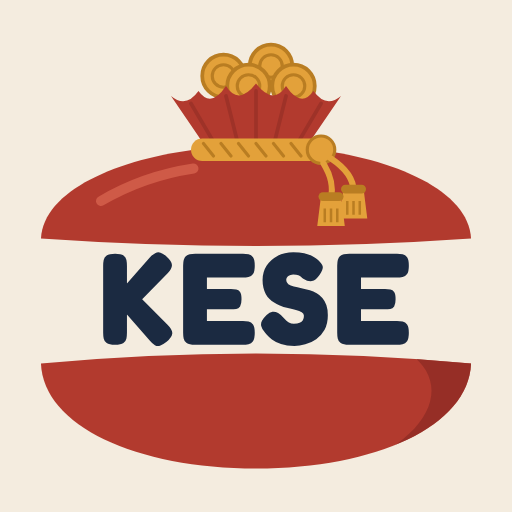
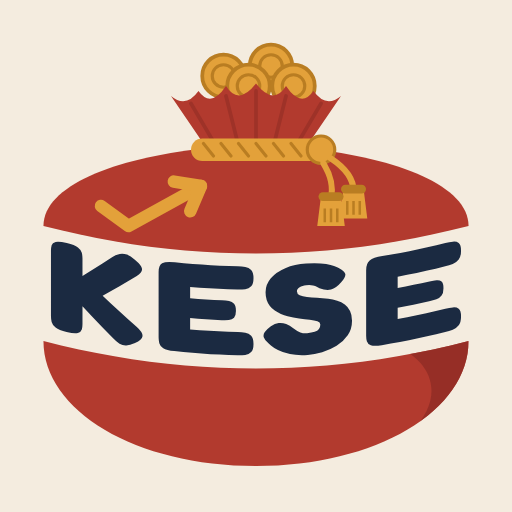
Kese logosu: yazı kesenin kavisine bükülüyor, ✓↗ birikim simgesi
KESE harfleri kesenin iki yarısının kavisli kenarlarına göre bükülüp
aradaki bandı tam dolduruyor. Üst yarıda altın sırma tek çizgi:
önce onay işareti (kontrol), sonra yükselen ok (birikim).

Claude-Session: https://claude.ai/code/session_01XqyNYuTbSfPdxAJCXwaoCi

diff --git a/index.html b/index.html
@@ -257,7 +257,7 @@ h2{font-family:var(--f-display);font-weight:600;font-size:1.05rem;margin:0;displ
 <body>
 <div class="wrap">
   <header>
-    <div class="brand"><svg class="crest" viewBox="34 62 352 348" aria-hidden="true"><circle cx="184" cy="92" r="17" fill="#e3a13a" stroke="#b97d22" stroke-width="3"/><circle cx="184" cy="92" r="9" fill="none" stroke="#b97d22" stroke-width="2.5"/><circle cx="222" cy="84" r="17" fill="#e3a13a" stroke="#b97d22" stroke-width="3"/><circle cx="222" cy="84" r="9" fill="none" stroke="#b97d22" stroke-width="2.5"/><circle cx="204" cy="100" r="17" fill="#e3a13a" stroke="#b97d22" stroke-width="3"/><circle cx="204" cy="100" r="9" fill="none" stroke="#b97d22" stroke-width="2.5"/><circle cx="240" cy="100" r="17" fill="#e3a13a" stroke="#b97d22" stroke-width="3"/><circle cx="240" cy="100" r="9" fill="none" stroke="#b97d22" stroke-width="2.5"/><path d="M172 152 L142 108 Q154 118 164 104 Q174 118 186 100 Q196 116 210 98 Q224 116 234 100 Q246 118 256 104 Q266 118 278 108 L248 152 Z" fill="#b23a2e"/><path d="M158 114 L178 148 M186 108 L196 148 M210 104 V148 M234 108 L224 148 M262 114 L242 148" stroke="#8f2c24" stroke-width="3" stroke-linecap="round" opacity=".55"/><path d="M168 150 C98 158 40 184 38 222 Q210 234 382 222 C380 184 322 158 252 150 Z" fill="#b23a2e"/><path d="M86 192 Q120 172 160 166" stroke="#cf5a47" stroke-width="8" stroke-linecap="round" fill="none"/><rect x="158" y="142" width="104" height="18" rx="9" fill="#e3a13a"/><path d="M168 146 l8 10 M182 146 l8 10 M196 146 l8 10 M210 146 l8 10 M224 146 l8 10 M238 146 l8 10" stroke="#b97d22" stroke-width="2.5" stroke-linecap="round"/><circle cx="262" cy="151" r="11" fill="#e3a13a" stroke="#b97d22" stroke-width="2.5"/><path d="M270 158 C282 166 288 174 288 184 M264 162 C270 172 272 180 270 190" stroke="#e3a13a" stroke-width="5" fill="none" stroke-linecap="round"/><path d="M280 182 H296 L299 206 H277 Z M262 188 H278 L281 212 H259 Z" fill="#e3a13a"/><path d="M283 192 V203 M288 192 V203 M293 192 V203 M265 198 V209 M270 198 V209 M275 198 V209" stroke="#b97d22" stroke-width="2"/><rect x="278" y="179" width="20" height="7" rx="3.5" fill="#b97d22"/><rect x="260" y="185" width="20" height="7" rx="3.5" fill="#b97d22"/><defs><clipPath id="khbot"><path d="M38 322 Q210 306 382 322 C380 372 306 406 210 406 C114 406 40 372 38 322 Z"/></clipPath></defs><path d="M38 322 Q210 306 382 322 C380 372 306 406 210 406 C114 406 40 372 38 322 Z" fill="#b23a2e"/><g clip-path="url(#khbot)"><path d="M300 300 C384 320 360 394 250 414 H400 V300 Z" fill="#8f2c24" opacity=".8"/></g><path transform="translate(83.59 306)" fill="currentColor" d="M13.62 0.94L13.62 0.94Q8.94 0.94 6.97-0.47Q4.99-1.87 4.58-4.11Q4.16-6.34 4.16-8.63L4.16-8.63L4.16-62.40Q4.16-64.69 4.58-66.87Q4.99-69.06 6.97-70.46Q8.94-71.86 13.73-71.86L13.73-71.86Q18.51-71.86 20.44-70.46Q22.36-69.06 22.78-66.87Q23.19-64.69 23.19-62.30L23.19-62.30L23.19-47.94L41.29-68.64Q43.68-71.24 45.76-72.28Q47.84-73.32 50.02-72.70Q52.21-72.07 54.81-69.58L54.81-69.58Q59.07-65.73 59.18-62.82Q59.28-59.90 55.74-56.16L55.74-56.16L35.36-35.36L55.85-14.87Q59.70-11.02 59.44-7.96Q59.18-4.89 54.91-1.35L54.91-1.35Q51.79 1.14 49.61 1.77Q47.42 2.39 45.55 1.30Q43.68 0.21 41.39-2.50L41.39-2.50L23.19-23.19L23.19-8.53Q23.19-6.24 22.78-4.06Q22.36-1.87 20.38-0.47Q18.41 0.94 13.62 0.94ZM115.86 0.94L77.58 0.94Q72.90 0.94 70.93-0.47Q68.95-1.87 68.54-4.11Q68.12-6.34 68.12-8.63L68.12-8.63L68.12-62.40Q68.12-67.81 70.25-69.84Q72.38-71.86 77.90-71.86L77.90-71.86L115.96-71.86Q118.35-71.86 120.48-71.45Q122.62-71.03 124.02-69.06Q125.42-67.08 125.42-62.30L125.42-62.30Q125.42-57.62 124.02-55.64Q122.62-53.66 120.43-53.25Q118.25-52.83 115.86-52.83L115.86-52.83L87.15-52.83L87.15-43.58L106.39-43.58Q108.78-43.58 110.66-43.21Q112.53-42.85 113.67-41.18Q114.82-39.52 114.82-35.36L114.82-35.36Q114.82-31.41 113.67-29.69Q112.53-27.98 110.55-27.66Q108.58-27.35 106.18-27.35L106.18-27.35L87.15-27.35L87.15-18.10L115.96-18.10Q118.35-18.10 120.48-17.68Q122.62-17.26 124.02-15.29Q125.42-13.31 125.42-8.53L125.42-8.53Q125.42-3.85 124.02-1.87Q122.62 0.10 120.43 0.52Q118.25 0.94 115.86 0.94L115.86 0.94ZM157.14 1.98L157.14 1.98Q150.80 1.98 146.38 0.42Q141.96-1.14 139.15-3.28Q136.34-5.41 134.89-7.18Q133.43-8.94 133.12-9.36L133.12-9.36Q131.04-11.96 130.57-14.04Q130.10-16.12 131.20-18.20Q132.29-20.28 134.89-22.78L134.89-22.78Q137.28-25.06 139.57-25.32Q141.86-25.58 144.09-24.34Q146.33-23.09 148.41-20.70L148.41-20.70Q150.90-17.89 152.67-16.90Q154.44-15.91 156.73-15.91L156.73-15.91Q159.54-15.91 161.30-16.59Q163.07-17.26 163.90-18.67Q164.74-20.07 164.74-22.26L164.74-22.26Q164.74-24.02 162.97-25.01Q161.20-26.00 158.34-26.73Q155.48-27.46 151.94-28.34Q148.41-29.22 144.98-30.68L144.98-30.68Q142.90-31.51 140.92-32.76Q138.94-34.01 137.23-35.62Q135.51-37.23 134.26-39.47Q133.02-41.70 132.34-44.51Q131.66-47.32 131.66-50.86L131.66-50.86Q131.66-57.20 134.84-62.19Q138.01-67.18 143.57-70.10Q149.14-73.01 156.21-73.01L156.21-73.01Q161.30-73.01 164.94-72.18Q168.58-71.34 170.92-70.20Q173.26-69.06 174.51-68.07Q175.76-67.08 176.07-66.77L176.07-66.77Q179.50-63.65 179.82-61.41Q180.13-59.18 177.32-55.02L177.32-55.02Q174.20-50.54 171.18-49.97Q168.17-49.40 164.22-51.90L164.22-51.90Q163.38-52.52 162.55-53.30Q161.72-54.08 160.32-54.65Q158.91-55.22 156.10-55.22L156.10-55.22Q155.06-55.22 154.02-54.86Q152.98-54.50 152.26-53.92Q151.53-53.35 151.06-52.52Q150.59-51.69 150.59-50.75L150.59-50.75Q150.59-48.57 152.26-47.37Q153.92-46.18 156.68-45.55Q159.43-44.93 162.76-44.30Q166.09-43.68 169.52-42.64L169.52-42.64Q172.33-41.70 174.93-40.25Q177.53-38.79 179.50-36.50Q181.48-34.22 182.68-30.84Q183.87-27.46 183.87-22.57L183.87-22.57Q183.87-15.81 181.27-11.08Q178.67-6.34 174.56-3.48Q170.46-0.62 165.83 0.68Q161.20 1.98 157.14 1.98ZM239.10 0.94L200.82 0.94Q196.14 0.94 194.17-0.47Q192.19-1.87 191.78-4.11Q191.36-6.34 191.36-8.63L191.36-8.63L191.36-62.40Q191.36-67.81 193.49-69.84Q195.62-71.86 201.14-71.86L201.14-71.86L239.20-71.86Q241.59-71.86 243.72-71.45Q245.86-71.03 247.26-69.06Q248.66-67.08 248.66-62.30L248.66-62.30Q248.66-57.62 247.26-55.64Q245.86-53.66 243.67-53.25Q241.49-52.83 239.10-52.83L239.10-52.83L210.39-52.83L210.39-43.58L229.63-43.58Q232.02-43.58 233.90-43.21Q235.77-42.85 236.91-41.18Q238.06-39.52 238.06-35.36L238.06-35.36Q238.06-31.41 236.91-29.69Q235.77-27.98 233.79-27.66Q231.82-27.35 229.42-27.35L229.42-27.35L210.39-27.35L210.39-18.10L239.20-18.10Q241.59-18.10 243.72-17.68Q245.86-17.26 247.26-15.29Q248.66-13.31 248.66-8.53L248.66-8.53Q248.66-3.85 247.26-1.87Q245.86 0.10 243.67 0.52Q241.49 0.94 239.10 0.94L239.10 0.94Z"/></svg><span class="sr">Kese · Mein Geldbeutel</span></div>
+    <div class="brand"><svg class="crest" viewBox="34 62 352 348" aria-hidden="true"><circle cx="184" cy="92" r="17" fill="#e3a13a" stroke="#b97d22" stroke-width="3"/><circle cx="184" cy="92" r="9" fill="none" stroke="#b97d22" stroke-width="2.5"/><circle cx="222" cy="84" r="17" fill="#e3a13a" stroke="#b97d22" stroke-width="3"/><circle cx="222" cy="84" r="9" fill="none" stroke="#b97d22" stroke-width="2.5"/><circle cx="204" cy="100" r="17" fill="#e3a13a" stroke="#b97d22" stroke-width="3"/><circle cx="204" cy="100" r="9" fill="none" stroke="#b97d22" stroke-width="2.5"/><circle cx="240" cy="100" r="17" fill="#e3a13a" stroke="#b97d22" stroke-width="3"/><circle cx="240" cy="100" r="9" fill="none" stroke="#b97d22" stroke-width="2.5"/><path d="M172 152 L142 108 Q154 118 164 104 Q174 118 186 100 Q196 116 210 98 Q224 116 234 100 Q246 118 256 104 Q266 118 278 108 L248 152 Z" fill="#b23a2e"/><path d="M158 114 L178 148 M186 108 L196 148 M210 104 V148 M234 108 L224 148 M262 114 L242 148" stroke="#8f2c24" stroke-width="3" stroke-linecap="round" opacity=".55"/><path d="M168 150 C96 158 40 180 40 212 L40.0 212.0 L54.2 215.5 L68.3 218.7 L82.5 221.6 L96.7 224.2 L110.8 226.5 L125.0 228.5 L139.2 230.2 L153.3 231.6 L167.5 232.6 L181.7 233.4 L195.8 233.8 L210.0 234.0 L224.2 233.8 L238.3 233.4 L252.5 232.6 L266.7 231.6 L280.8 230.2 L295.0 228.5 L309.2 226.5 L323.3 224.2 L337.5 221.6 L351.7 218.7 L365.8 215.5 L380.0 212.0 C380 180 324 158 252 150 Z" fill="#b23a2e"/><path d="M86 196 L108 212 L166 180" stroke="#e3a13a" stroke-width="10" fill="none" stroke-linecap="round" stroke-linejoin="round"/><path d="M144.3 176.5 L166 180 L157.4 200.2" stroke="#e3a13a" stroke-width="10" fill="none" stroke-linecap="round" stroke-linejoin="round"/><rect x="158" y="142" width="104" height="18" rx="9" fill="#e3a13a"/><path d="M168 146 l8 10 M182 146 l8 10 M196 146 l8 10 M210 146 l8 10 M224 146 l8 10 M238 146 l8 10" stroke="#b97d22" stroke-width="2.5" stroke-linecap="round"/><circle cx="262" cy="151" r="11" fill="#e3a13a" stroke="#b97d22" stroke-width="2.5"/><path d="M270 158 C282 166 288 174 288 184 M264 162 C270 172 272 180 270 190" stroke="#e3a13a" stroke-width="5" fill="none" stroke-linecap="round"/><path d="M280 182 H296 L299 206 H277 Z M262 188 H278 L281 212 H259 Z" fill="#e3a13a"/><path d="M283 192 V203 M288 192 V203 M293 192 V203 M265 198 V209 M270 198 V209 M275 198 V209" stroke="#b97d22" stroke-width="2"/><rect x="278" y="179" width="20" height="7" rx="3.5" fill="#b97d22"/><rect x="260" y="185" width="20" height="7" rx="3.5" fill="#b97d22"/><defs><clipPath id="khbot"><path d="M40.0 304.0 L54.2 307.5 L68.3 310.7 L82.5 313.6 L96.7 316.2 L110.8 318.5 L125.0 320.5 L139.2 322.2 L153.3 323.6 L167.5 324.6 L181.7 325.4 L195.8 325.8 L210.0 326.0 L224.2 325.8 L238.3 325.4 L252.5 324.6 L266.7 323.6 L280.8 322.2 L295.0 320.5 L309.2 318.5 L323.3 316.2 L337.5 313.6 L351.7 310.7 L365.8 307.5 L380.0 304.0 C380 360 306 404 210 404 C114 404 40 360 40 304 Z"/></clipPath></defs><path d="M40.0 304.0 L54.2 307.5 L68.3 310.7 L82.5 313.6 L96.7 316.2 L110.8 318.5 L125.0 320.5 L139.2 322.2 L153.3 323.6 L167.5 324.6 L181.7 325.4 L195.8 325.8 L210.0 326.0 L224.2 325.8 L238.3 325.4 L252.5 324.6 L266.7 323.6 L280.8 322.2 L295.0 320.5 L309.2 318.5 L323.3 316.2 L337.5 313.6 L351.7 310.7 L365.8 307.5 L380.0 304.0 C380 360 306 404 210 404 C114 404 40 360 40 304 Z" fill="#b23a2e"/><g clip-path="url(#khbot)"><path d="M300 300 C384 320 360 394 250 414 H400 V300 Z" fill="#8f2c24" opacity=".8"/></g><path fill="currentColor" d="M58.54 296.81L58.54 296.81Q52.34 295.24 49.72 293.19Q47.10 291.13 46.55 288.79Q46.00 286.46 46.00 284.23L46.00 284.23L46.00 231.67Q46.00 229.44 46.55 227.45Q47.10 225.46 49.72 224.78Q52.34 224.09 58.67 225.69L58.67 225.69Q65.01 227.23 67.56 229.20Q70.11 231.16 70.66 233.42Q71.21 235.68 71.21 238.02L71.21 238.02L71.21 252.05L79.20 247.07L87.19 241.98L95.18 236.79Q98.35 234.84 101.10 234.32Q103.86 233.78 106.75 234.89Q109.64 235.98 113.09 238.98L113.09 238.98Q118.74 243.61 118.87 246.47Q119.01 249.34 114.33 252.28L114.33 252.28L107.58 256.27L100.83 260.19L94.08 264.03L87.33 267.79L94.11 274.12L100.90 280.38L107.68 286.56L114.47 292.66Q119.56 297.20 119.22 300.14Q118.87 303.09 113.23 305.68L113.23 305.68Q109.09 307.45 106.20 307.58Q103.31 307.69 100.83 306.18Q98.35 304.67 95.32 301.46L95.32 301.46L87.28 293.16L79.25 284.75L71.21 276.24L71.21 290.57Q71.21 292.81 70.66 294.82Q70.11 296.82 67.49 297.59Q64.87 298.35 58.54 296.81ZM195.33 315.40L188.09 315.18L180.84 314.88L173.60 314.49L166.36 314.02L159.12 313.46L151.88 312.81L144.63 312.08Q138.44 311.39 135.82 309.70Q133.20 308.01 132.65 305.75Q132.10 303.50 132.10 301.26L132.10 301.26L132.10 248.71Q132.10 243.42 134.92 241.79Q137.75 240.15 145.05 240.97L145.05 240.97L152.25 241.70L159.45 242.33L166.66 242.89L173.86 243.35L181.06 243.74L188.26 244.04L195.47 244.25Q198.64 244.32 201.46 244.77Q204.28 245.21 206.14 247.16Q208.00 249.10 208.00 253.77L208.00 253.77Q208.00 258.35 206.14 260.27Q204.28 262.18 201.39 262.56Q198.50 262.92 195.33 262.85L195.33 262.85L187.72 262.62L180.12 262.29L172.52 261.88L164.91 261.36L157.31 260.75L157.31 269.80L163.68 270.32L170.05 270.77L176.42 271.15L182.79 271.47Q185.96 271.60 188.44 272.05Q190.92 272.49 192.44 274.16Q193.95 275.83 193.95 279.89L193.95 279.89Q193.95 283.75 192.44 285.39Q190.92 287.02 188.30 287.24Q185.69 287.45 182.52 287.31L182.52 287.31L176.22 286.99L169.91 286.61L163.61 286.17L157.31 285.66L157.31 294.70L164.94 295.31L172.57 295.83L180.20 296.25L187.83 296.57L195.47 296.80Q198.64 296.87 201.46 297.32Q204.28 297.76 206.14 299.71Q208.00 301.65 208.00 306.32L208.00 306.32Q208.00 310.90 206.14 312.82Q204.28 314.74 201.39 315.11Q198.50 315.47 195.33 315.40L195.33 315.40ZM251.40 315.19L251.40 315.19Q242.99 315.70 237.14 314.47Q231.28 313.17 227.56 311.21Q223.84 309.22 221.92 307.53Q219.99 305.84 219.57 305.44L219.57 305.44Q216.82 302.93 216.20 300.91Q215.58 298.88 217.03 296.83Q218.47 294.78 221.92 292.28L221.92 292.28Q225.08 289.98 228.12 289.64Q231.15 289.29 234.11 290.40Q237.07 291.50 239.82 293.71L239.82 293.71Q243.13 296.28 245.47 297.11Q247.81 297.94 250.85 297.75L250.85 297.75Q254.56 297.49 256.91 296.65Q259.25 295.80 260.35 294.34Q261.45 292.88 261.45 290.74L261.45 290.74Q261.45 289.02 259.11 288.24Q256.77 287.46 252.98 287.03Q249.19 286.57 244.51 285.99Q239.82 285.37 235.28 284.15L235.28 284.15Q232.52 283.45 229.91 282.32Q227.29 281.18 225.02 279.66Q222.74 278.14 221.09 275.99Q219.44 273.83 218.54 271.10Q217.65 268.36 217.65 264.91L217.65 264.91Q217.65 258.71 221.85 253.76Q226.05 248.79 233.42 245.70Q240.79 242.53 250.16 241.99L250.16 241.99Q256.91 241.51 261.73 241.93Q266.55 242.32 269.65 243.14Q272.75 243.95 274.40 244.74Q276.05 245.53 276.47 245.79L276.47 245.79Q281.01 248.33 281.43 250.47Q281.84 252.60 278.12 257.09L278.12 257.09Q273.99 261.91 269.99 262.88Q266.00 263.81 260.76 261.83L260.76 261.83Q259.66 261.31 258.56 260.64Q257.46 259.96 255.60 259.55Q253.74 259.12 250.02 259.38L250.02 259.38Q248.64 259.47 247.26 259.91Q245.89 260.34 244.92 260.96Q243.96 261.57 243.34 262.42Q242.72 263.27 242.72 264.18L242.72 264.18Q242.72 266.32 244.92 267.36Q247.13 268.40 250.78 268.78Q254.43 269.14 258.83 269.41Q263.24 269.65 267.79 270.25L267.79 270.25Q271.51 270.81 274.95 271.87Q278.40 272.92 281.01 274.86Q283.63 276.79 285.22 279.90Q286.80 283.00 286.80 287.78L286.80 287.78Q286.80 294.39 283.36 299.44Q279.91 304.46 274.47 307.86Q269.03 311.20 262.90 313.03Q256.77 314.80 251.40 315.19ZM361.33 296.85L354.08 298.60L346.84 300.26L339.60 301.84L332.36 303.33L325.12 304.74L317.87 306.06L310.63 307.29Q304.43 308.28 301.82 307.31Q299.20 306.32 298.65 304.22Q298.10 302.11 298.10 299.88L298.10 299.88L298.10 247.32Q298.10 242.04 300.92 239.64Q303.74 237.23 311.04 236.07L311.04 236.07L318.25 234.84L325.45 233.52L332.65 232.12L339.86 230.63L347.06 229.06L354.26 227.40L361.46 225.66Q364.63 224.86 367.46 224.55Q370.28 224.22 372.14 225.66Q374.00 227.10 374.00 231.77L374.00 231.77Q374.00 236.35 372.14 238.78Q370.28 241.20 367.39 242.36Q364.49 243.50 361.33 244.29L361.33 244.29L353.72 246.13L346.12 247.87L338.51 249.52L330.91 251.07L323.31 252.52L323.31 261.57L329.68 260.36L336.05 259.08L342.42 257.73L348.79 256.32Q351.96 255.59 354.44 255.36Q356.92 255.13 358.43 256.39Q359.95 257.64 359.95 261.71L359.95 261.71Q359.95 265.57 358.43 267.62Q356.92 269.66 354.30 270.59Q351.68 271.51 348.51 272.23L348.51 272.23L342.21 273.63L335.91 274.96L329.61 276.23L323.31 277.43L323.31 286.47L330.94 285.01L338.57 283.45L346.20 281.80L353.83 280.05L361.46 278.21Q364.63 277.42 367.46 277.10Q370.28 276.78 372.14 278.22Q374.00 279.65 374.00 284.33L374.00 284.33Q374.00 288.90 372.14 291.33Q370.28 293.75 367.39 294.91Q364.49 296.05 361.33 296.85L361.33 296.85Z"/></svg><span class="sr">Kese · Mein Geldbeutel</span></div>
     <div class="month">
       <button id="prev" aria-label="Önceki ay">‹</button>
       <span id="monthLabel" class="num">—</span>

diff --git a/sw.js b/sw.js
@@ -1,4 +1,4 @@
-const CACHE="kese-v5";
+const CACHE="kese-v6";
 const FILES=["./","index.html","manifest.webmanifest","icon-180.png","icon-192.png","icon-512.png"];
 self.addEventListener("install",e=>{e.waitUntil(caches.open(CACHE).then(c=>c.addAll(FILES)));self.skipWaiting()});
 self.addEventListener("activate",e=>{e.waitUntil(caches.keys().then(ks=>Promise.all(ks.filter(k=>(k.startsWith("cuzdan")||k.startsWith("kese"))&&k!==CACHE).map(k=>caches.delete(k)))));self.clients.claim()});
